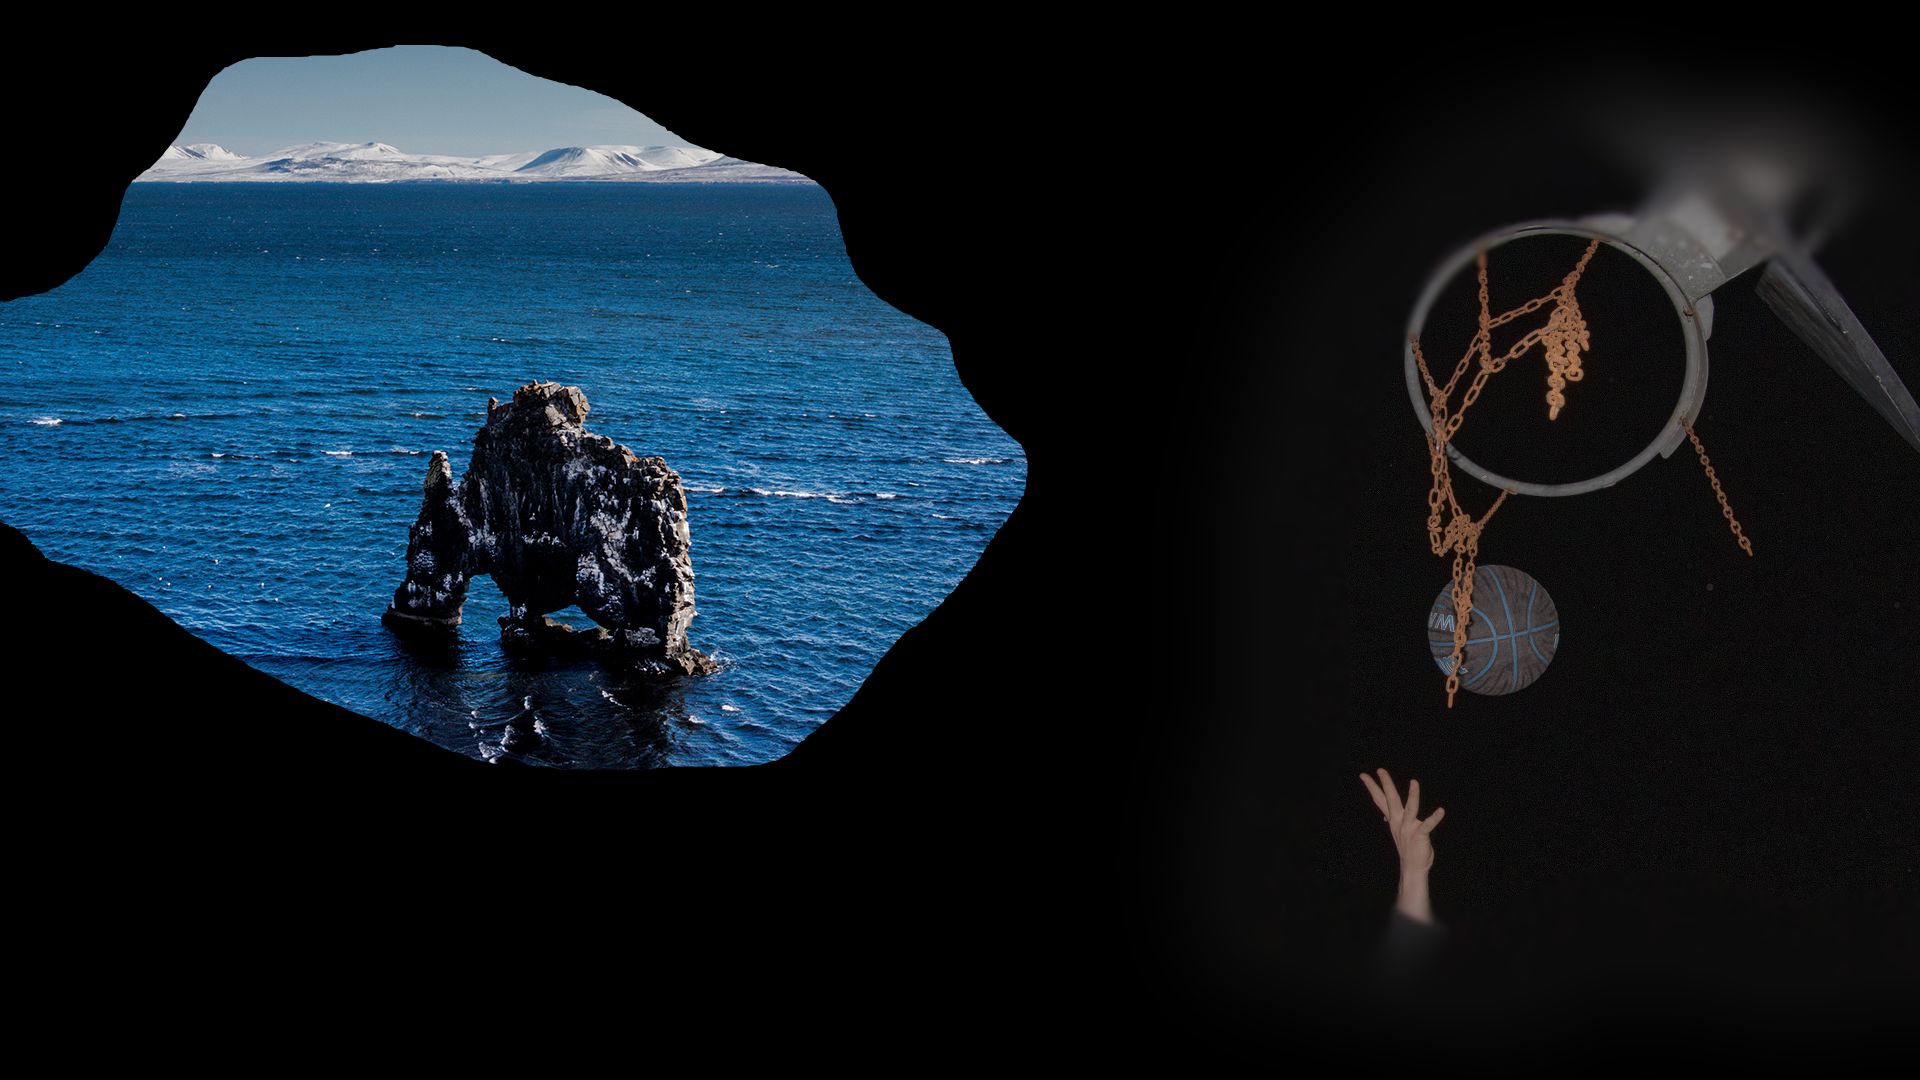
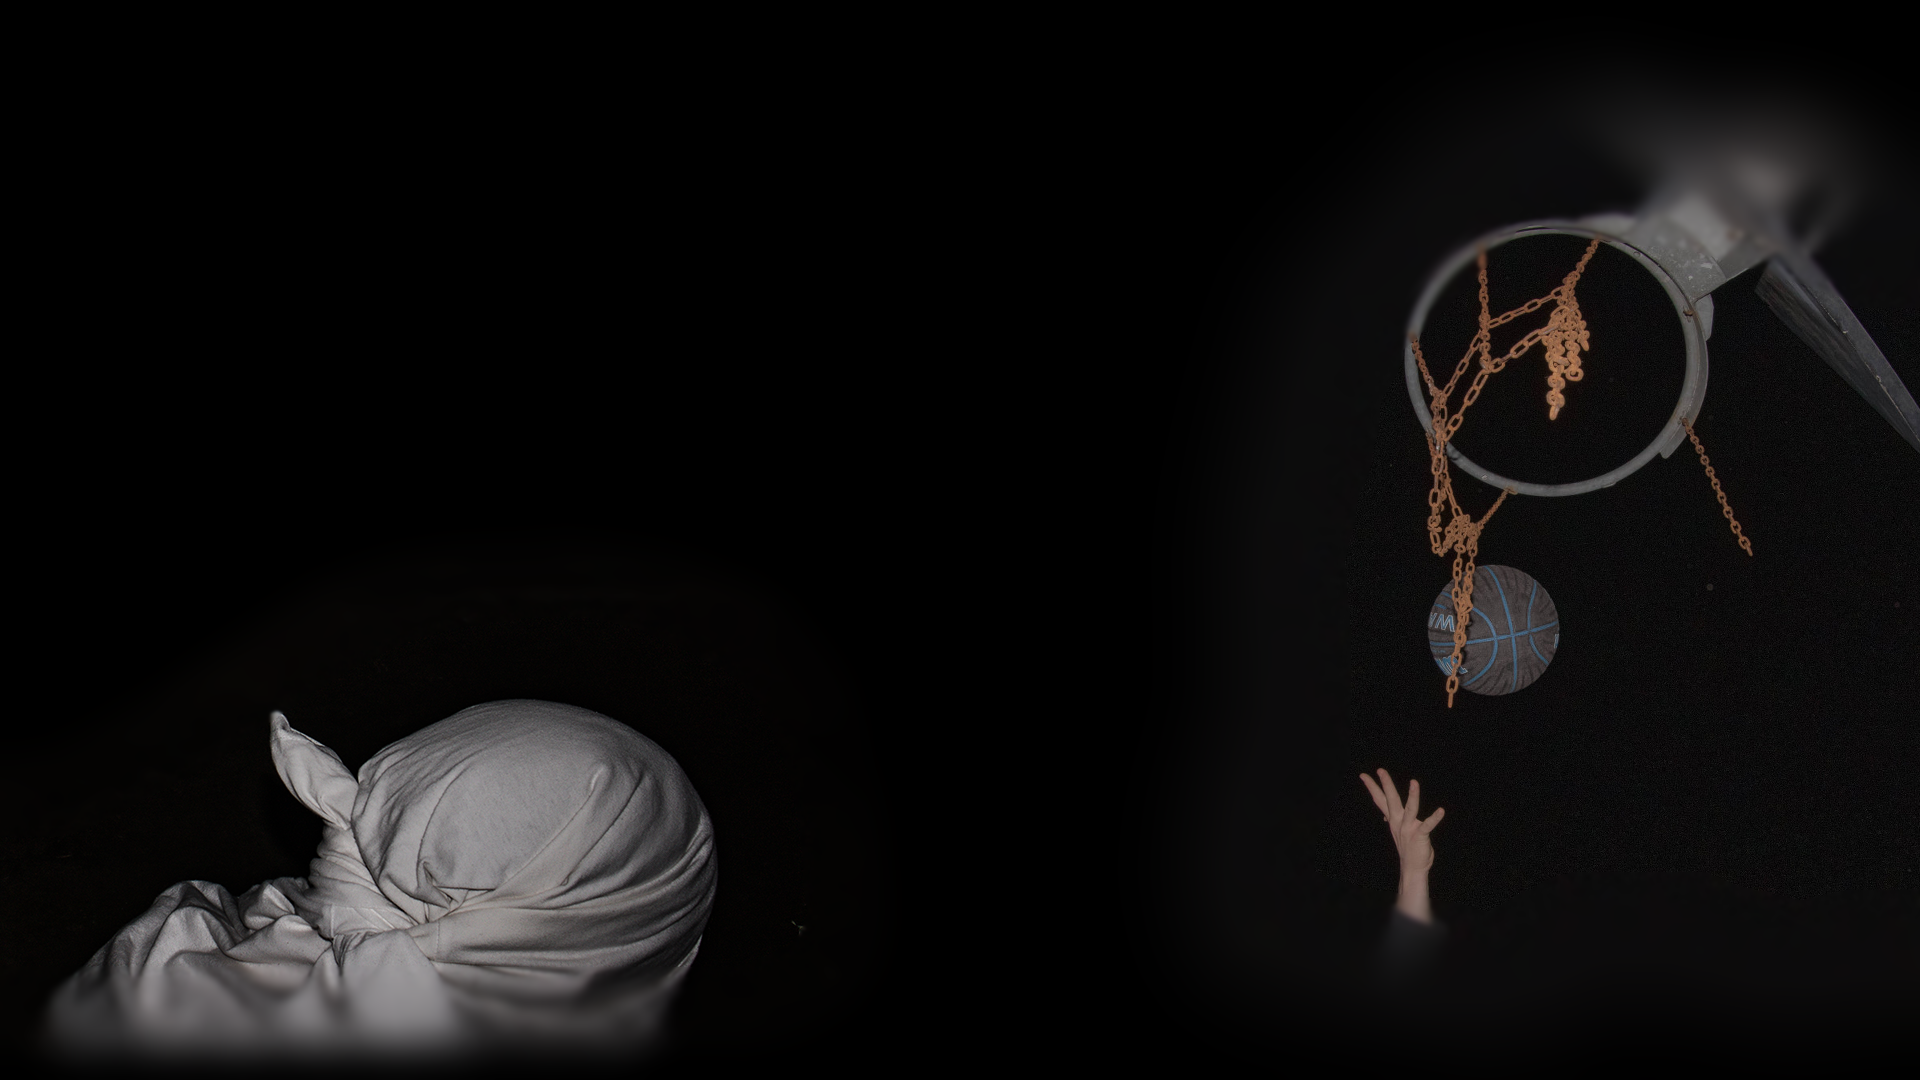
New_bg

diff --git a/assets/scss/style.scss b/assets/scss/style.scss
@@ -25,7 +25,7 @@ html {
     align-items: center;
 
 
-    background: url(../img/hobby-bg.png);
+    background: url(../img/hobby-bg-test.png);
     background-size: cover;
     background-repeat: no-repeat;
     background-position: center center;
@@ -44,11 +44,11 @@ html {
       width: 70%;
       height: 60%;
       display: flex;
-      background-color: rgba(84, 181, 202, 0.2);
+      background-color: rgba(181, 183, 184, 0.2);
       backdrop-filter: blur(3px);
       -webkit-backdrop-filter: blur(3px);
       // box-shadow: 0px 0px 24px 8px rgba(255, 9, 62, 1);
-      border-radius: 10%;
+      border-radius: 50px;
 
       
 
@@ -67,17 +67,18 @@ html {
 
         .card-container{
           width: 100%;
-          height: 70%;
+          height: 80%;
           display: flex;
           justify-content: center;
           align-items: center;
           flex-direction: column;
-          transition: .5s;
+          transition: .7s;
           // background-color:rebeccapurple;
+          // top: -200px;
 
           .card-one{
             left: 20%;
-            top:65%;
+            top:55%;
 
             background: url(../img/img_1.jpg);
             box-shadow: 0px 0px 24px 8px rgb(184, 144, 37);
@@ -99,7 +100,7 @@ html {
 
           .card-three{
             left: -20%;
-            
+            top: -5%;
             background: url(../img/img_3.jpg);
             box-shadow: 0px 0px 24px 8px rgb(72, 141, 161);
           }
@@ -108,7 +109,7 @@ html {
             position: relative;
             width: 45%;
             height: 40%;
-            transition: .5s;
+            transition: .9s;
 
             background-size: cover;
             background-repeat: no-repeat;
@@ -137,7 +138,7 @@ html {
 
         .card-container{
           width: 100%;
-          height: 70%;
+          height: 80%;
           display: flex;
           justify-content: center;
           align-items: center;
@@ -175,7 +176,7 @@ html {
             position: relative;
             width: 35%;
             height: 70%;
-            transition: .5s;
+            transition: .7s;
 
             background-size: cover;
             background-repeat: no-repeat;
@@ -197,7 +198,22 @@ html {
 
 
 @media (max-width: 1440px){
-
+  .hero{
+    .hobby{
+      .hobby-content{
+        .hobby-content-left{
+          .card-container{
+            height: 70%;
+          }
+        }
+        .hobby-content-right{
+          .card-container{
+            height: 70%;
+          }
+        }
+      }
+    }
+  }
 }
 
 @media (max-width: 1200px){

diff --git a/assets/css/style.css b/assets/css/style.css
@@ -19,7 +19,7 @@ html {
   display: flex;
   justify-content: center;
   align-items: center;
-  background: url(../img/hobby-bg.png);
+  background: url(../img/hobby-bg-test.png);
   background-size: cover;
   background-repeat: no-repeat;
   background-position: center center;
@@ -34,10 +34,10 @@ html {
   width: 70%;
   height: 60%;
   display: flex;
-  background-color: rgba(84, 181, 202, 0.2);
+  background-color: rgba(181, 183, 184, 0.2);
   backdrop-filter: blur(3px);
   -webkit-backdrop-filter: blur(3px);
-  border-radius: 10%;
+  border-radius: 50px;
 }
 .hero .hobby .hobby-content .hobby-content-left {
   width: 50%;
@@ -52,16 +52,16 @@ html {
 }
 .hero .hobby .hobby-content .hobby-content-left .card-container {
   width: 100%;
-  height: 70%;
+  height: 80%;
   display: flex;
   justify-content: center;
   align-items: center;
   flex-direction: column;
-  transition: 0.5s;
+  transition: 0.7s;
 }
 .hero .hobby .hobby-content .hobby-content-left .card-container .card-one {
   left: 20%;
-  top: 65%;
+  top: 55%;
   background: url(../img/img_1.jpg);
   box-shadow: 0px 0px 24px 8px rgb(184, 144, 37);
 }
@@ -78,6 +78,7 @@ html {
 }
 .hero .hobby .hobby-content .hobby-content-left .card-container .card-three {
   left: -20%;
+  top: -5%;
   background: url(../img/img_3.jpg);
   box-shadow: 0px 0px 24px 8px rgb(72, 141, 161);
 }
@@ -85,7 +86,7 @@ html {
   position: relative;
   width: 45%;
   height: 40%;
-  transition: 0.5s;
+  transition: 0.9s;
   background-size: cover;
   background-repeat: no-repeat;
   background-position: center center;
@@ -107,7 +108,7 @@ html {
 }
 .hero .hobby .hobby-content .hobby-content-right .card-container {
   width: 100%;
-  height: 70%;
+  height: 80%;
   display: flex;
   justify-content: center;
   align-items: center;
@@ -138,11 +139,20 @@ html {
   position: relative;
   width: 35%;
   height: 70%;
-  transition: 0.5s;
+  transition: 0.7s;
   background-size: cover;
   background-repeat: no-repeat;
   background-position: center center;
   -webkit-background-size: cover;
   -webkit-background-repeat: no-repeat;
   -webkit-background-position: center center;
+}
+
+@media (max-width: 1440px) {
+  .hero .hobby .hobby-content .hobby-content-left .card-container {
+    height: 70%;
+  }
+  .hero .hobby .hobby-content .hobby-content-right .card-container {
+    height: 70%;
+  }
 }/*# sourceMappingURL=style.css.map */
